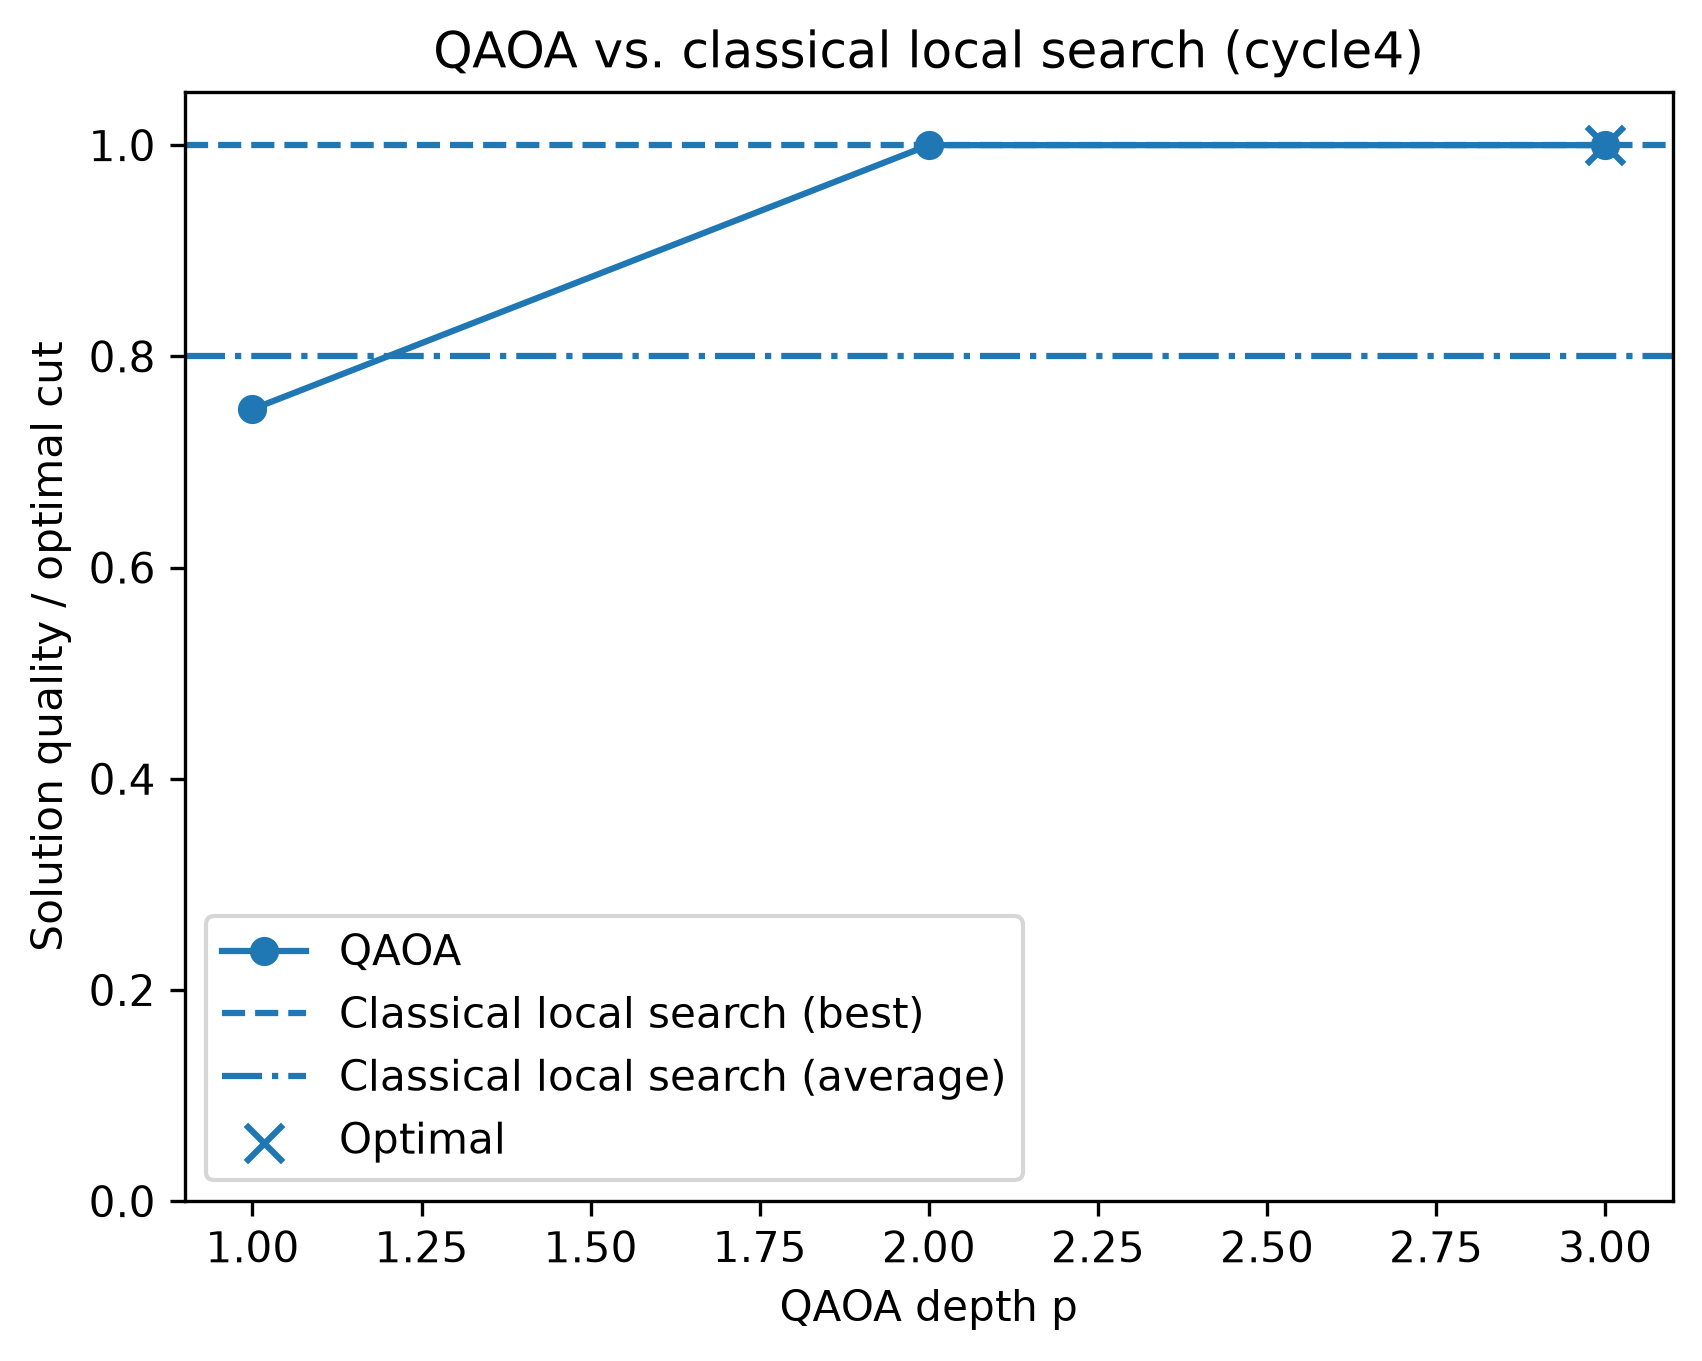
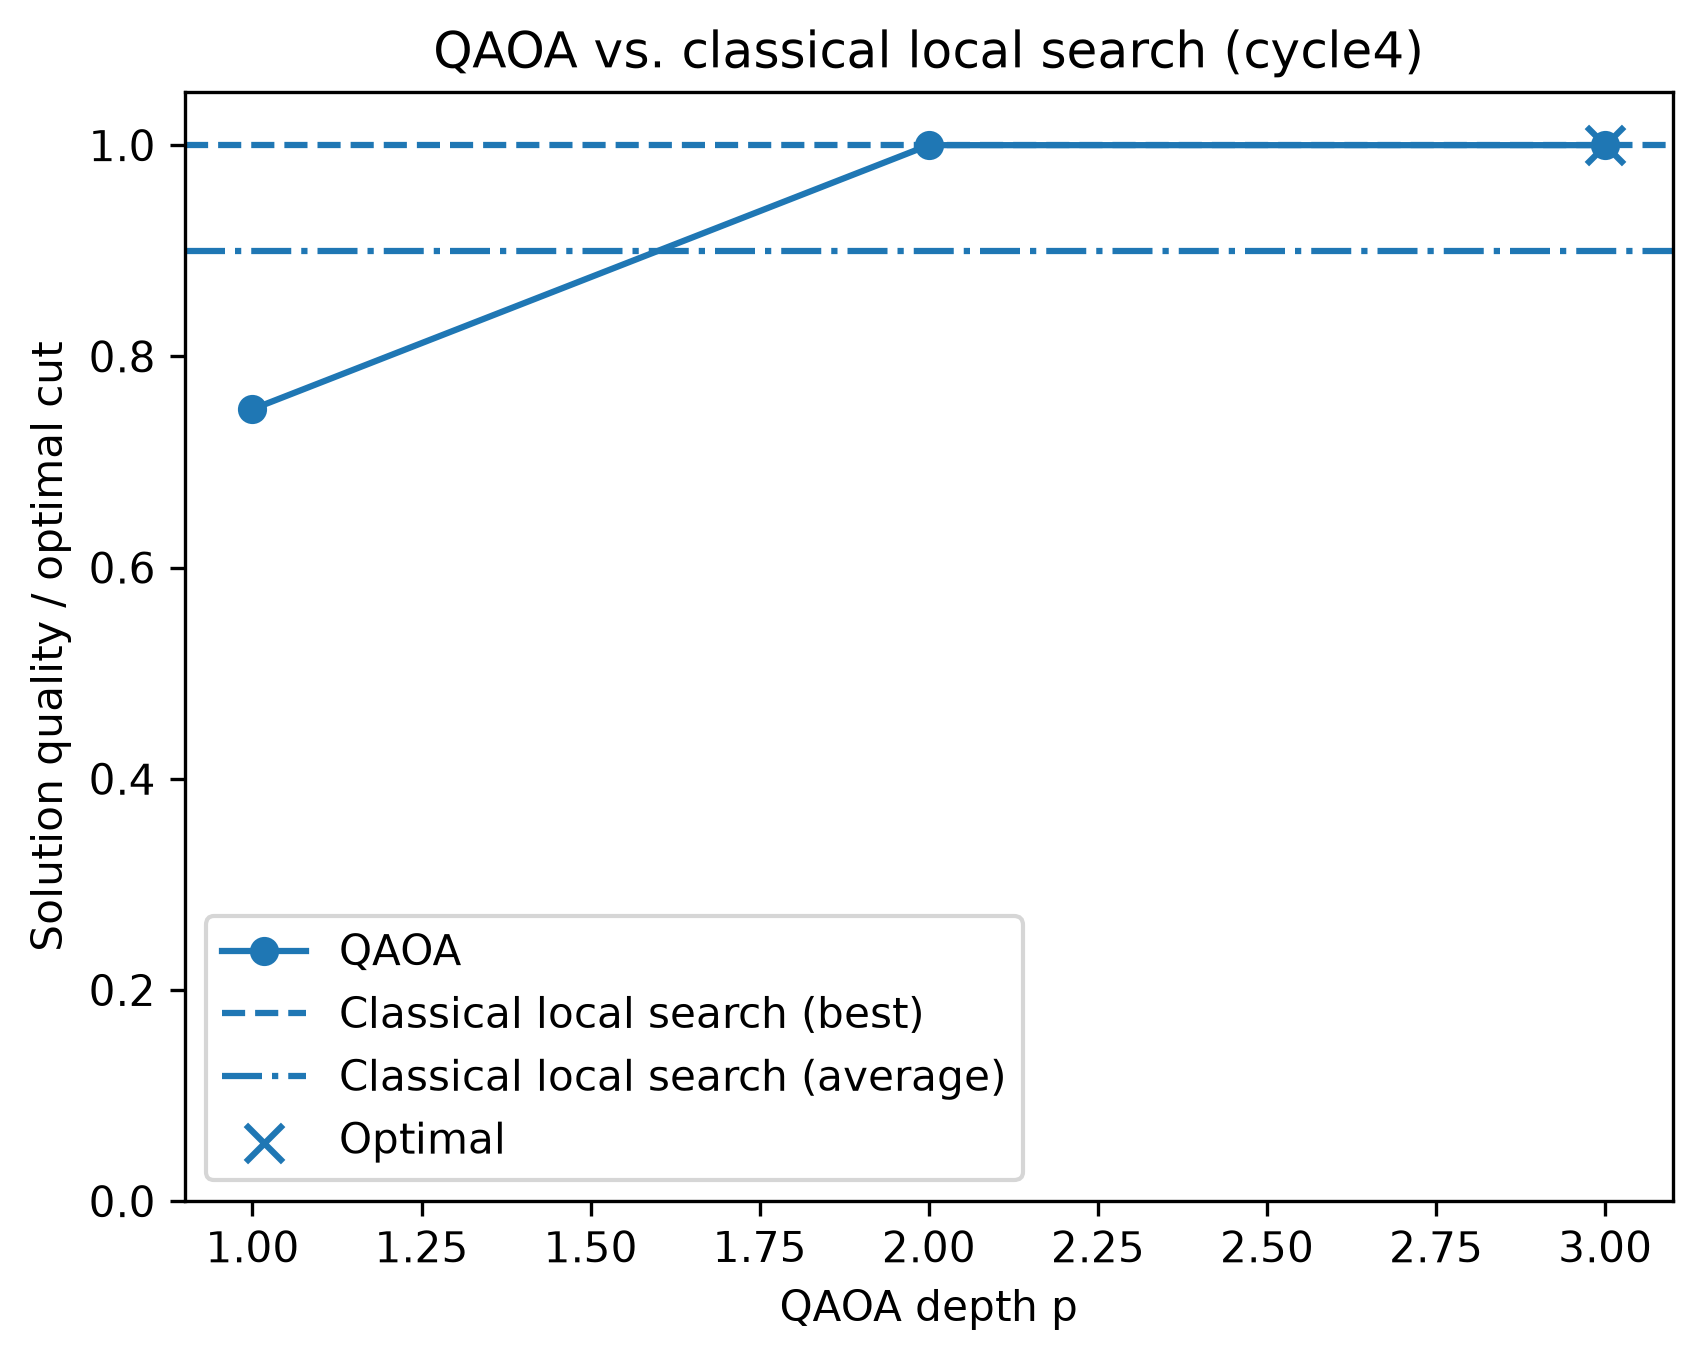
counted operations

Changed region(s): [[0.1246, 0.2469, 0.9965, 0.2777]]

diff --git a/experiments/plot_comparisons.py b/experiments/plot_comparisons.py
@@ -11,6 +11,7 @@ for filename in result_files:
     p_values = []
     expectations = []
     evaluations = []
+    quantum_gates = []
 
     with open(filename, "r") as file:
         for line in file:
@@ -24,11 +25,14 @@ for filename in result_files:
 
             elif line.startswith("Evaluations for best run:"):
                 evaluations.append(int(line.split(":")[1]))
+            elif line.startswith("Total quantum gates:"):
+                quantum_gates.append(int(line.split(":")[1]))
 
     results[graph_name] = {
         "p": p_values,
         "expectations": expectations,
-        "evaluations": evaluations
+        "evaluations": evaluations,
+        "quantum_gates": quantum_gates
     }
 
 
@@ -113,6 +117,10 @@ with open("results/classical_heuristic_results.txt", "r") as file:
             classical_results[current_graph]["average_cut"] = float(
                 line.split(":")[1]
             )
+        elif line.startswith("Total operations:"):
+            classical_results[current_graph]["operations"] = int(
+                line.split(":")[1]
+            )
 
 
 optimal_results = {}
@@ -131,9 +139,10 @@ with open("results/classical_results.txt", "r") as file:
             optimal_results[current_graph]["optimal_cut"] = float(
                 line.split(":")[1]
             )
-
-print(classical_results)
-print(optimal_results)
+        elif line.startswith("Operations:"):
+            optimal_results[current_graph]["operations"] = int(
+                line.split(":")[1]
+            )
 
 graph_names = ["cycle4", "cycle6", "cycle8"]
 
@@ -195,3 +204,51 @@ for graph_name in graph_names:
     )
 
     plt.close()
+
+    # Plot computational operations
+
+plt.figure(figsize=(10, 6))
+
+for p in [1, 2, 3]:
+    plt.plot(
+        [4, 6, 8],
+        [
+            results[f"cycle{n}"]["quantum_gates"][p - 1]
+            for n in [4, 6, 8]
+        ],
+        marker="o",
+        label=f"QAOA p={p}"
+    )
+
+plt.plot(
+    [4, 6, 8],
+    [
+        optimal_results[f"cycle{n}"]["operations"]
+        for n in [4, 6, 8]
+    ],
+    marker="o",
+    label="Classical brute force"
+)
+
+plt.plot(
+    [4, 6, 8],
+    [
+        classical_results[f"cycle{n}"]["operations"]
+        for n in [4, 6, 8]
+    ],
+    marker="o",
+    label="Classical local search"
+)
+
+plt.xlabel("Number of vertices n")
+plt.ylabel("Operations")
+plt.title("Computational operations: QAOA vs. classical algorithms")
+plt.legend()
+
+plt.savefig(
+    "figures/comparisons/operations_comparison.png",
+    dpi=300,
+    bbox_inches="tight"
+)
+
+plt.close()

diff --git a/experiments/parameter_optimization.py b/experiments/parameter_optimization.py
@@ -2,7 +2,7 @@ import numpy as np
 from scipy.optimize import minimize, Bounds
 import matplotlib.pyplot as plt
 from src.measurement import index_to_bitstring
-from src.qaoa import qaoa_expectation_pn, qaoa_state_pn
+from src.qaoa import qaoa_expectation_pn, qaoa_state_pn, qaoa_gate_count
 from src.graphs import cycle_graph
 
 n = 8
@@ -45,6 +45,8 @@ with open(f"results/{graph_name}_results.txt", "w") as file:
 
         best_parameters = best_result.x
         best_evaluations = best_result.nfev
+        gates_per_evaluation = qaoa_gate_count(graph, n, p)
+        total_quantum_gates = total_evaluations * gates_per_evaluation
 
         best_gammas = best_parameters[:p]
         best_betas = best_parameters[p:]
@@ -91,5 +93,7 @@ with open(f"results/{graph_name}_results.txt", "w") as file:
         file.write(f"Best betas: {best_betas}\n")
         file.write(f"Evaluations for best run: {best_evaluations}\n")
         file.write(f"Total evaluations: {total_evaluations}\n")
+        file.write(f"Quantum gates per evaluation: {gates_per_evaluation}\n")
+        file.write(f"Total quantum gates: {total_quantum_gates}\n")
         file.write("\n")
         file.flush()

diff --git a/experiments/classical_heuristic.py b/experiments/classical_heuristic.py
@@ -11,9 +11,11 @@ with open("results/classical_heuristic_results.txt", "w") as file:
 
         best_cut = 0
         total_cut = 0
+        total_operations = 0
 
         for i in range(num_runs):
-            cut, partition = local_search_maxcut(graph, n)
+            cut, partition, operations = local_search_maxcut(graph, n)
+            total_operations += operations
 
             total_cut += cut
 
@@ -29,4 +31,6 @@ with open("results/classical_heuristic_results.txt", "w") as file:
         file.write(f"Average cut: {average_cut:.4f}\n")
         file.write(f"Best partition: {partition_to_bitstring(best_partition)}\n")
         file.write(f"Number of runs: {num_runs}\n")
+        file.write(f"Total operations: {total_operations}\n")
+        file.write(f"Average operations: {total_operations / num_runs:.1f}\n")
         file.write("\n")

diff --git a/tests/test_qaoa.py b/tests/test_qaoa.py
@@ -1,9 +1,10 @@
 import numpy as np
 from src.cost import cost_operator, expectation_value
 from src.qaoa import cost_unitary, mixer_unitary, initial_state, qaoa_state
-from src.qaoa import qaoa_expectation, qaoa_state_pn, qaoa_expectation_pn
+from src.qaoa import qaoa_expectation, qaoa_state_pn, qaoa_expectation_pn, qaoa_gate_count
 from src.mixer import mixer_operator
 from scipy.linalg import expm
+from src.graphs import cycle_graph
 
 
 def test_cost_unitary_on_state():
@@ -149,3 +150,10 @@ def test_qaoa_expectation_pn_p2():
     )
 
     assert np.isclose(result, expected)
+
+def test_qaoa_gate_count():
+    graph = cycle_graph(4)
+
+    assert qaoa_gate_count(graph, 4, 1) == 8
+    assert qaoa_gate_count(graph, 4, 2) == 16
+    assert qaoa_gate_count(graph, 4, 3) == 24

diff --git a/src/classical_heuristic.py b/src/classical_heuristic.py
@@ -16,20 +16,24 @@ def local_search_maxcut(graph, n):
     partition = [random.randint(0, 1) for _ in range(n)]
 
     improved = True
+    operations = 0
 
     while improved:
         improved = False
 
         for node in range(n):
             current_cut = cut_value(graph, partition)
+            operations += 1
 
             partition[node] = 1 - partition[node]
 
             new_cut = cut_value(graph, partition)
+            operations += 1
 
             if new_cut > current_cut:
                 improved = True
             else:
                 partition[node] = 1 - partition[node]
 
-    return cut_value(graph, partition), partition
+        operations += 1
+    return cut_value(graph, partition), partition, operations

diff --git a/experiments/classical_baseline.py b/experiments/classical_baseline.py
@@ -8,7 +8,7 @@ with open("results/classical_results.txt", "w") as file:
     for n in n_values:
         graph = cycle_graph(n)
 
-        best_cut, best_partitions = maxcut_brute(graph, n)
+        best_cut, best_partitions, operations = maxcut_brute(graph, n)
 
         file.write(f"Graph: cycle{n}\n")
         file.write(f"n: {n}\n")
@@ -19,4 +19,5 @@ with open("results/classical_results.txt", "w") as file:
         )
 
         file.write(f"Optimal partitions: {optimal_partitions}\n")
+        file.write(f"Operations: {operations}\n") 
         file.write("\n")

diff --git a/src/maxcut.py b/src/maxcut.py
@@ -11,12 +11,14 @@ def cut_value(graph, partition):
 def maxcut_brute(graph, n):
     best_cut = 0
     best_partitions = []
+    operations = 0
     for i in range(2**n):
         partition = [int(j) for j in index_to_bitstring(i, n)]
         cut = cut_value(graph, partition)
+        operations += 1
         if cut > best_cut:
             best_cut = cut
             best_partitions = [partition]
         elif cut == best_cut:
             best_partitions.append(partition)
-    return best_cut, best_partitions
+    return best_cut, best_partitions, operations

diff --git a/src/qaoa.py b/src/qaoa.py
@@ -38,6 +38,12 @@ def qaoa_state_pn(graph, n, gammas, betas):
         state = U_B @ (U_C @ state)
     return state
 
+def qaoa_gate_count(graph, n, p):
+    cost_gates = len(graph)
+    mixer_gates = n
+
+    return p * (cost_gates + mixer_gates)
+
 def qaoa_expectation_pn(graph, n, gammas, betas):
     if len(gammas) != len(betas):
         raise ValueError("gammas and betas must have the same length")

diff --git a/README.md b/README.md
@@ -20,6 +20,26 @@ The project focuses on:
 ## Project structure
 
 QAOA-MAXCUT
+├── experiments/
+│   ├── classical_baseline.py
+│   ├── classical_heuristic.py
+│   ├── parameter_optimization.py
+│   ├── parameter_scan.py
+│   └── plot_comparisons.py
+|
+├── figures/
+│   ├── comparisons/
+│   ├── p1/
+│   ├── p2/
+│   └── p3/
+│
+├── results/
+│   ├── classical_heuristic_results.txt
+│   ├── classical_results.txt
+│   ├── cycle4_results.txt
+│   ├── cycle6_results.txt
+│   └── cycle8_results.txt
+│
 ├── src/
 │   ├── classical_heuristic.py
 │   ├── cost.py
@@ -31,19 +51,14 @@ QAOA-MAXCUT
 │   ├── qaoa.py
 │   └── quantum_state.py
 │
-├── experiments/
-│   ├── parameter_optimization.py
-│   ├── parameter_scan.py
-│   ├── plot_comparisons.py
-│   └── classical_baseline.py
-│
-├── figures/
-│   ├── p1/
-│   ├── p2/
-│   ├── p3/
-│   └── comparisons/
-│
-├── results/
+├── tests/
+│   ├── test_cost.py
+│   ├── test_gates.py
+│   ├── test_graphs.py
+│   ├── test_maxcut.py
+│   ├── test_measurement.py
+│   ├── test_mixer.py
+│   └── test_qaoa.py
 │
 └── README.md
 ```
